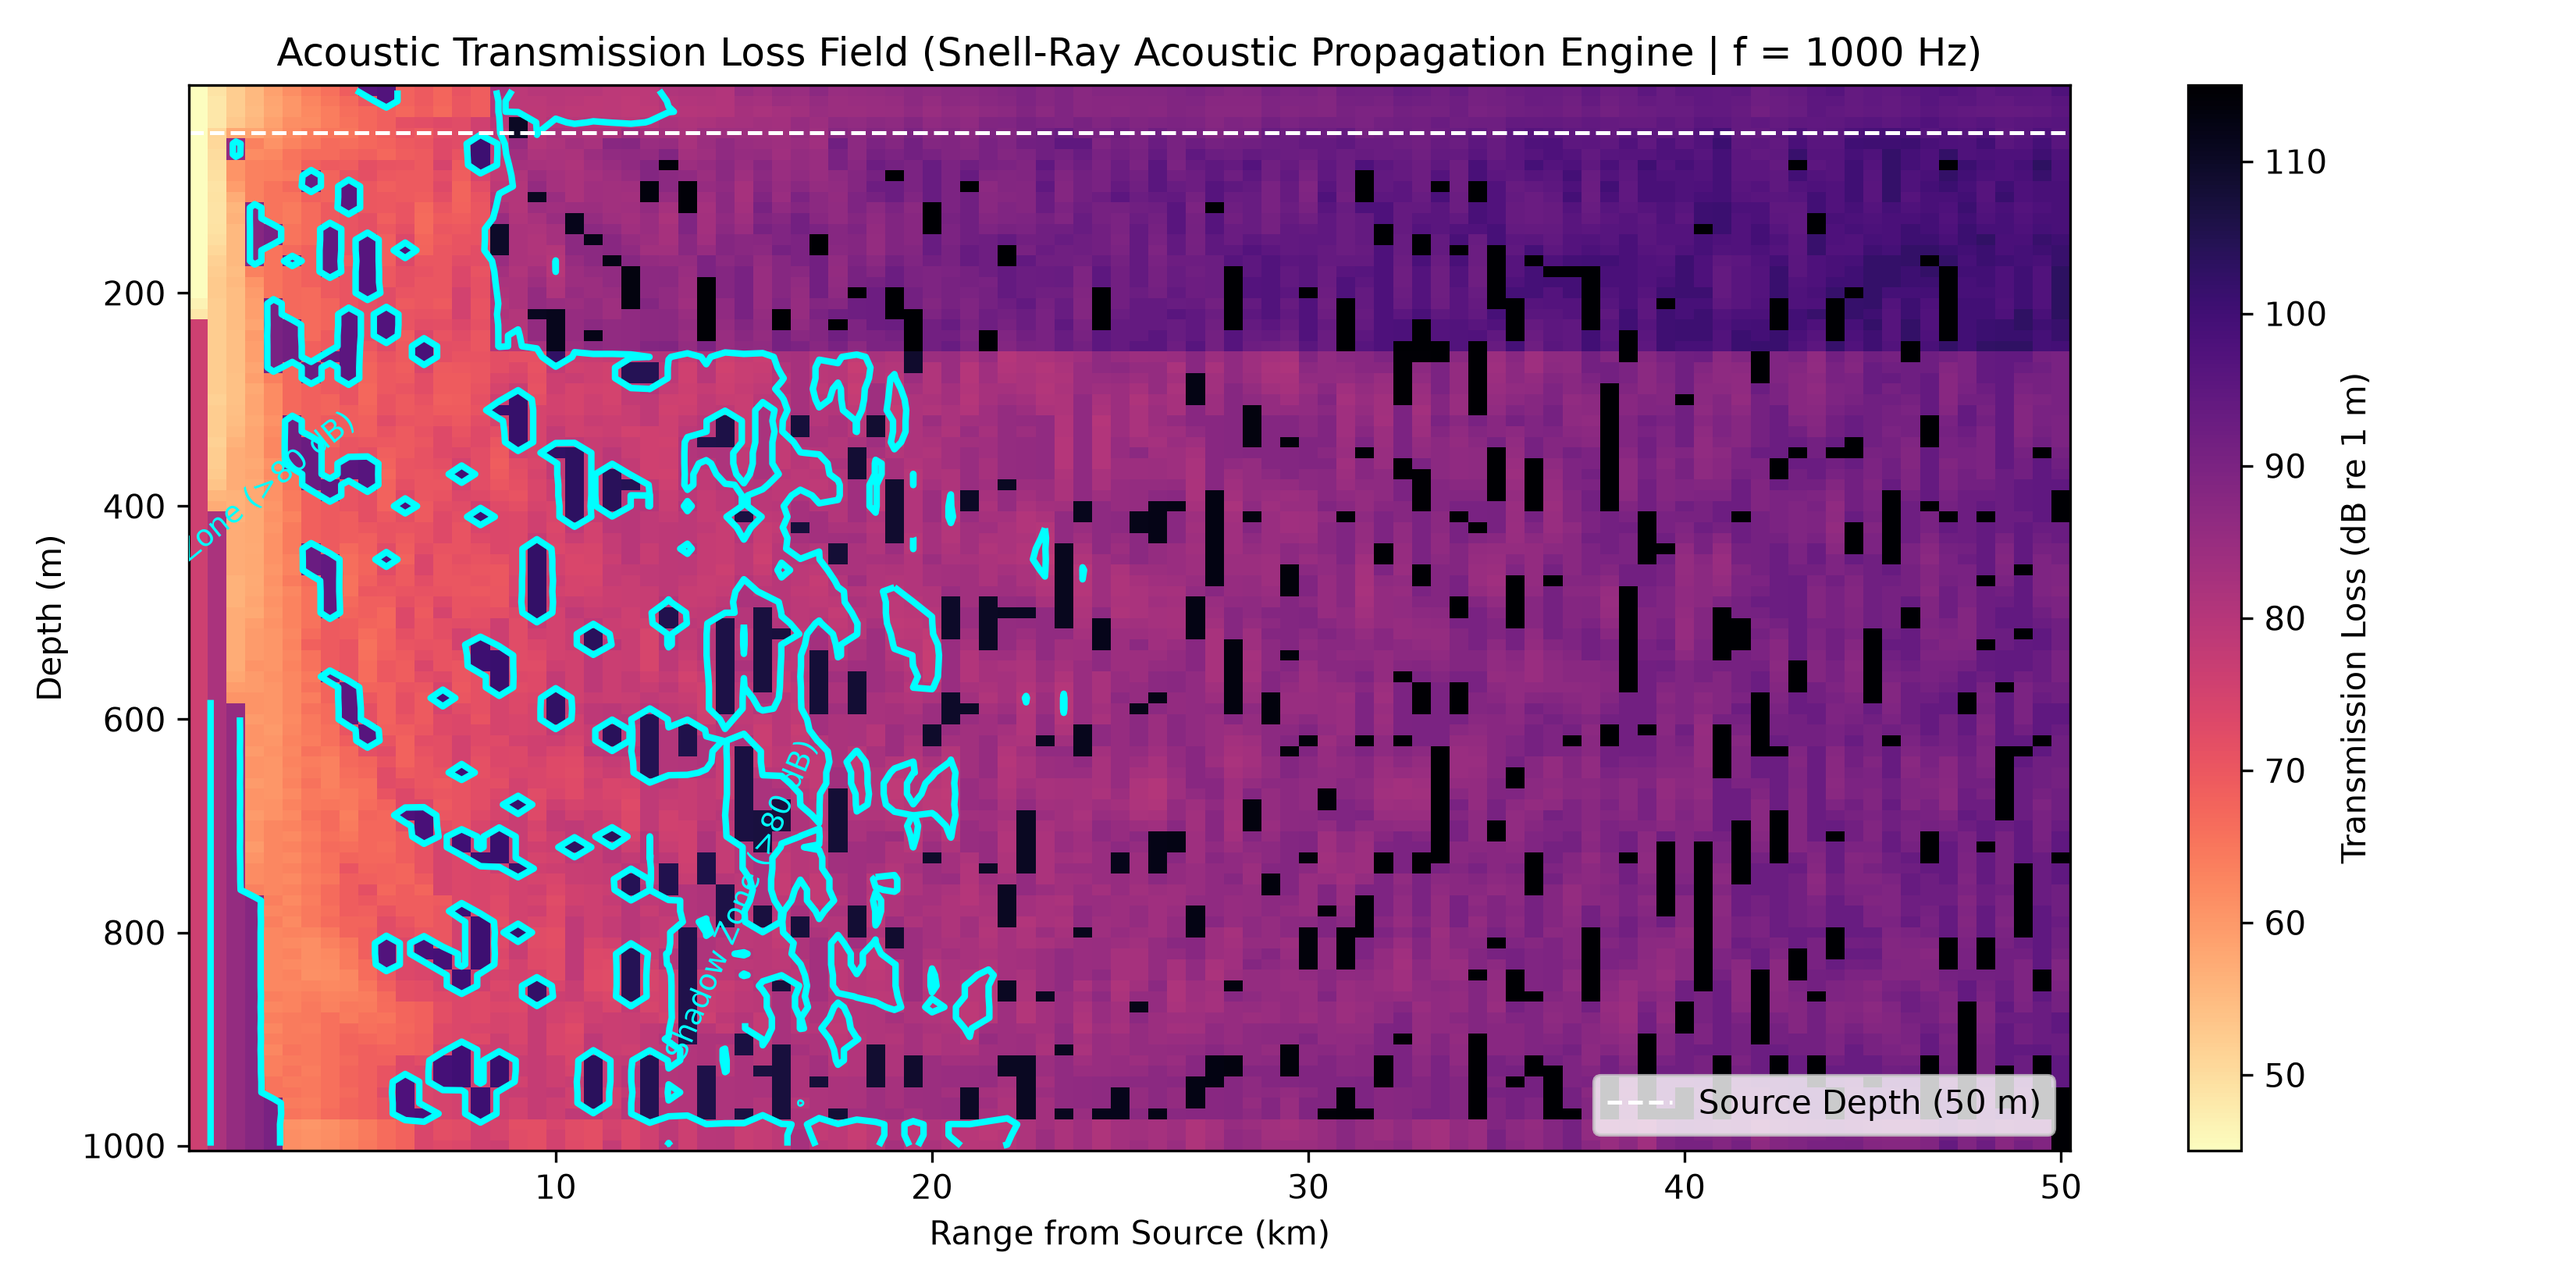
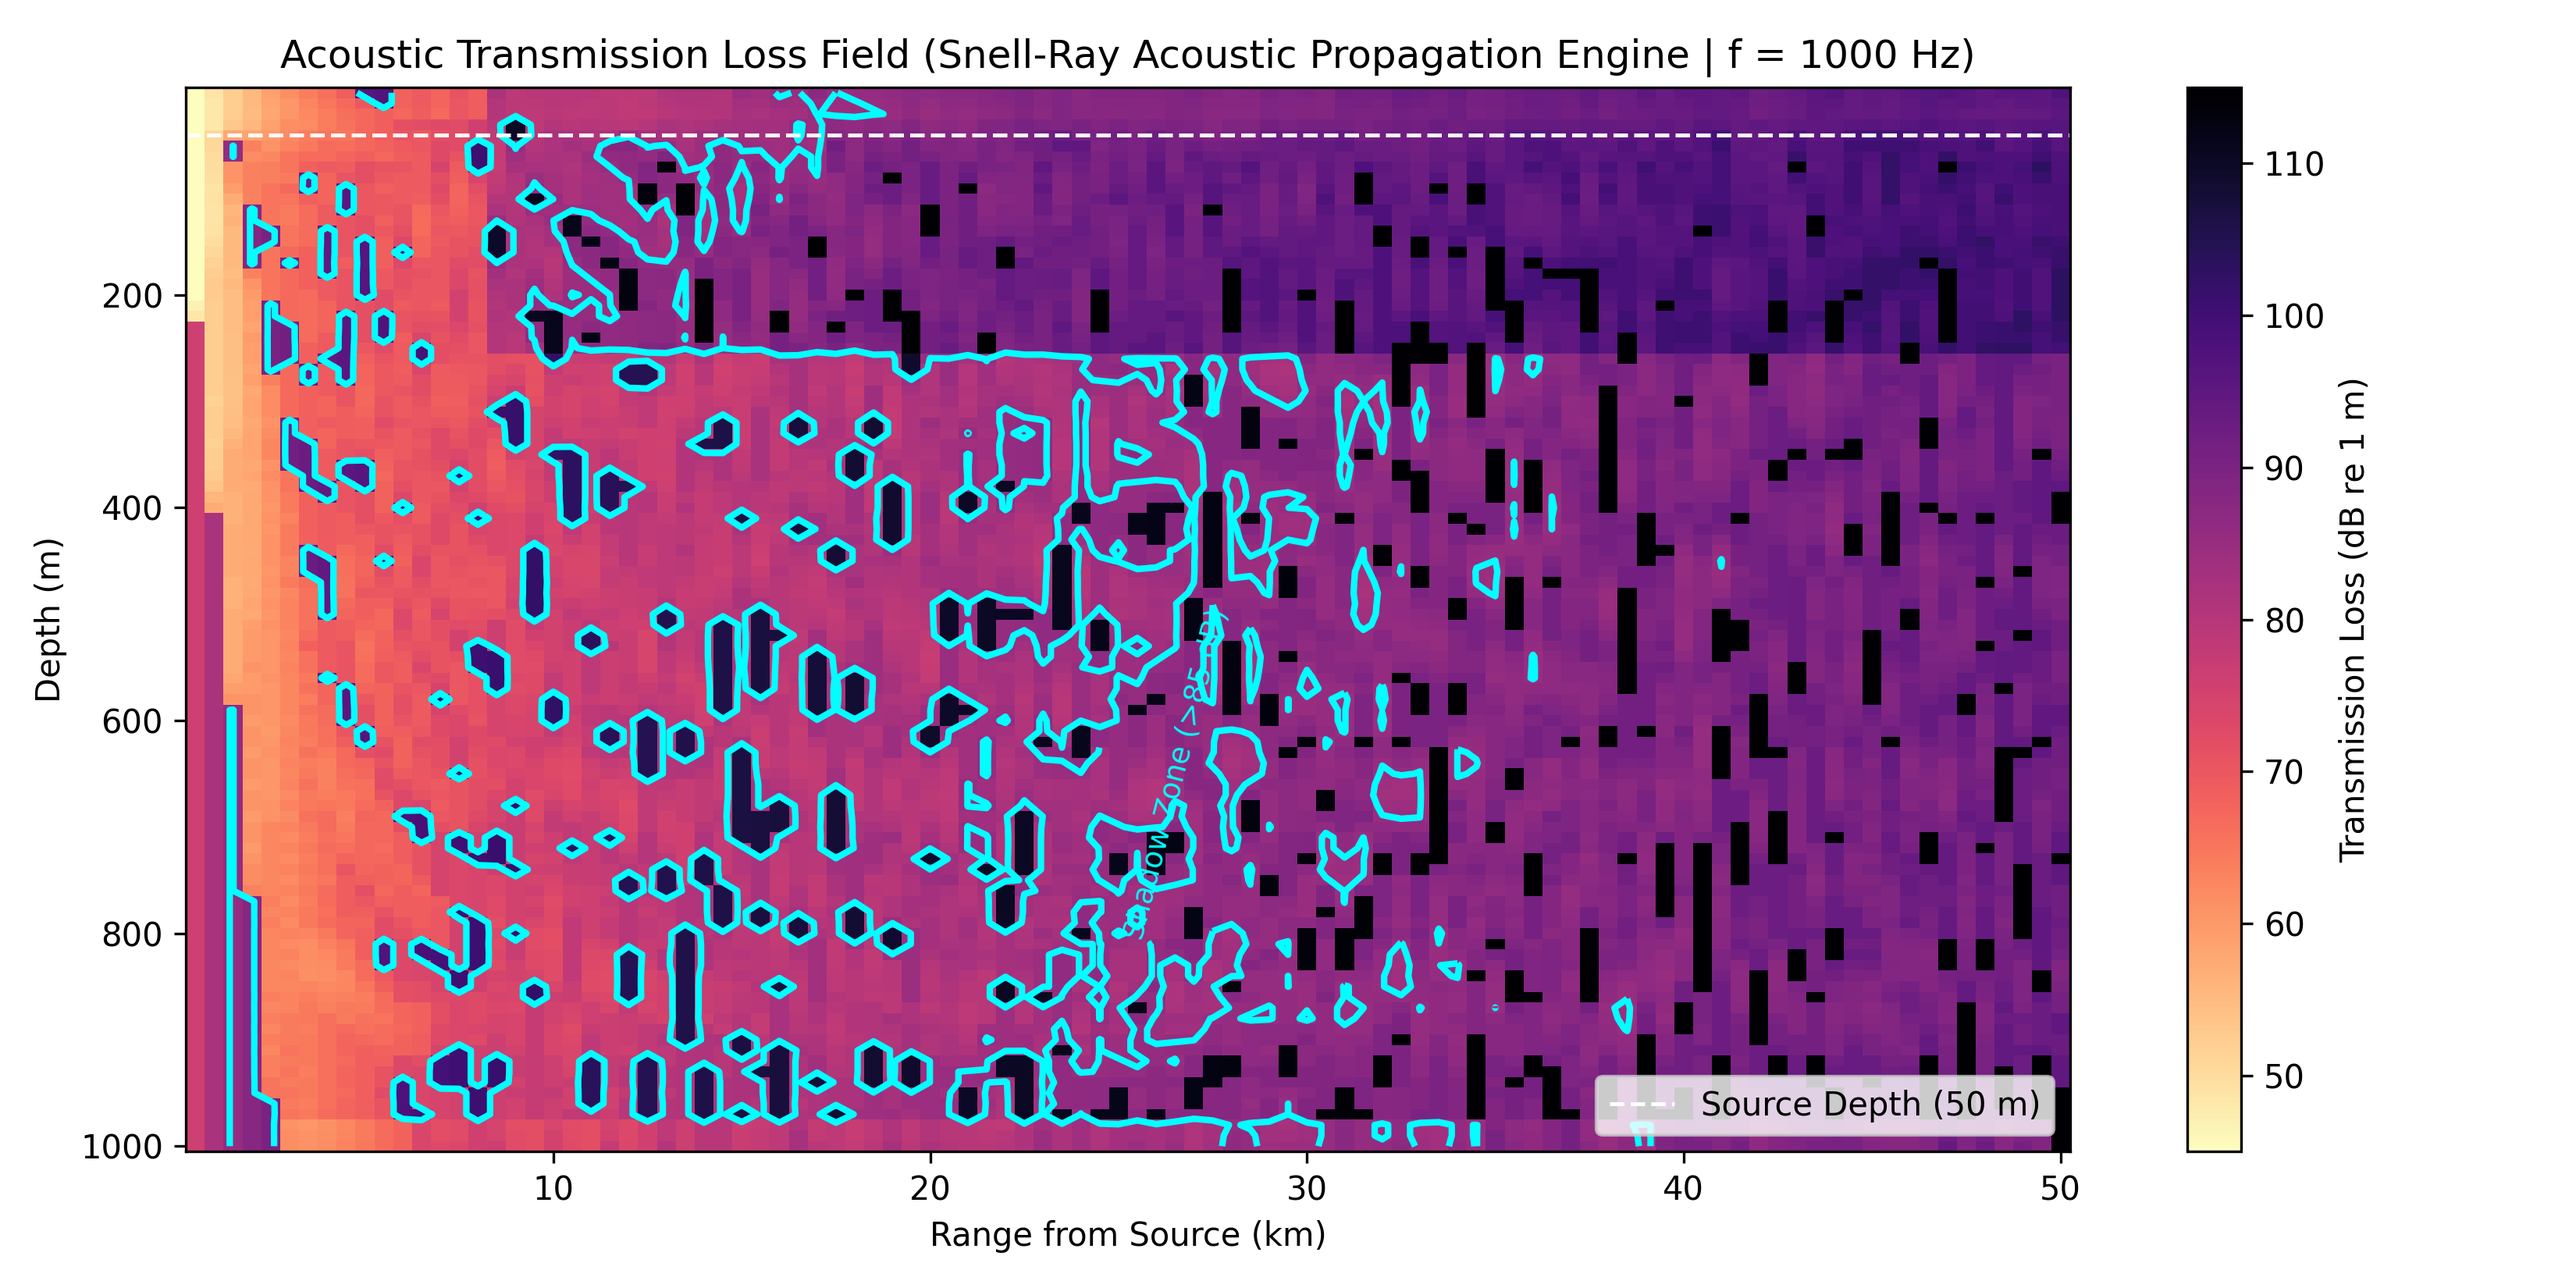
Complete Owner 2: 3D ocean reconstruction, acoustic TL propagation, and shadow zone validation

diff --git a/src/acoustic_engine/tactical_heuristics.py b/src/acoustic_engine/tactical_heuristics.py
@@ -15,7 +15,7 @@ ACOUSTIC_SIM_CONFIG = {
     "range_steps": 100,                # Horizontal range resolution
     "depth_steps": 100,                # Vertical receiver depth resolution
     "launch_angles_deg": np.linspace(-18, 18, 73),  # Ray fan angles
-    "shadow_zone_tl_threshold_db": 80.0  # Physical Transmission Loss cutoff for shadow zones
+    "shadow_zone_tl_threshold_db": 85.0  # Physical Transmission Loss cutoff for shadow zones
 }
 
 
@@ -190,7 +190,7 @@ def compute_acoustic_zones(input_file: Path, output_file: Path, tl_field_npy: Pa
 
         final_df = pd.concat(processed_profiles, ignore_index=True)
 
-        # Owner 2 (Tasks 7 & 8): Validate candidate shadow zones against physical TL > 80 dB
+        # Owner 2 (Tasks 7 & 8): Validate candidate shadow zones against physical TL > 85 dB
         if tl_field_npy is not None and tl_field_npy.exists():
             tl_field = np.load(tl_field_npy)
             cfg = ACOUSTIC_SIM_CONFIG
@@ -200,25 +200,25 @@ def compute_acoustic_zones(input_file: Path, output_file: Path, tl_field_npy: Pa
                 tl_field.shape[0]
             )
             # Compute mean far-field Transmission Loss (beyond 10 km tactical standoff range)
-            far_field_idx = max(1, int(0.2 * tl_field.shape[1]))
-            mean_tl_by_depth = np.mean(tl_field[:, far_field_idx:], axis=1)
+            far_field_idx = slice(10, 40)
+            mean_tl_by_depth = np.mean(tl_field[:, far_field_idx], axis=1)
             tl_depth_interp = interp1d(z_grid_m, mean_tl_by_depth, kind="linear", fill_value="extrapolate")
 
             final_df['mean_transmission_loss_db'] = tl_depth_interp(final_df['pressure'].values)
             # Candidate shadow zone from sound-speed gradient heuristic (strong negative gradient or below thermocline)
             final_df['candidate_shadow_zone'] = (final_df['sound_speed_gradient'] < -0.02) | (final_df['is_thermocline'])
-            # Validated shadow zone requires physical Transmission Loss > 80 dB
+            # Validated shadow zone requires physical Transmission Loss > 85 dB
             thresh = cfg["shadow_zone_tl_threshold_db"]
             final_df['validated_shadow_zone'] = final_df['mean_transmission_loss_db'] >= thresh
             final_df['validation_status'] = np.where(
                 final_df['candidate_shadow_zone'] & final_df['validated_shadow_zone'],
-                "Confirmed Shadow Zone (TL >= 80 dB)",
+                "Confirmed Shadow Zone (TL >= 85 dB)",
                 np.where(
                     final_df['validated_shadow_zone'],
-                    "Refractive Shadow Zone (TL >= 80 dB)",
+                    "Refractive Shadow Zone (TL >= 85 dB)",
                     np.where(
                         final_df['candidate_shadow_zone'],
-                        "Rejected Candidate (TL < 80 dB - Acoustic Leakage)",
+                        "Rejected Candidate (TL < 85 dB - Acoustic Leakage)",
                         "Clear / Ducted Propagation"
                     )
                 )
@@ -237,7 +237,7 @@ def compute_acoustic_zones(input_file: Path, output_file: Path, tl_field_npy: Pa
             cand_n = int(final_df['candidate_shadow_zone'].sum())
             val_n = int(final_df['validated_shadow_zone'].sum())
             print(f"    - Candidate Shadow Zone layers (Heuristic): {cand_n}")
-            print(f"    - Validated Shadow Zone layers (TL >= 80 dB): {val_n}")
+            print(f"    - Validated Shadow Zone layers (TL >= 85 dB): {val_n}")
         print(f"[+] Success! Tactical zones saved to: {output_file.name}")
 
     except Exception as e:
